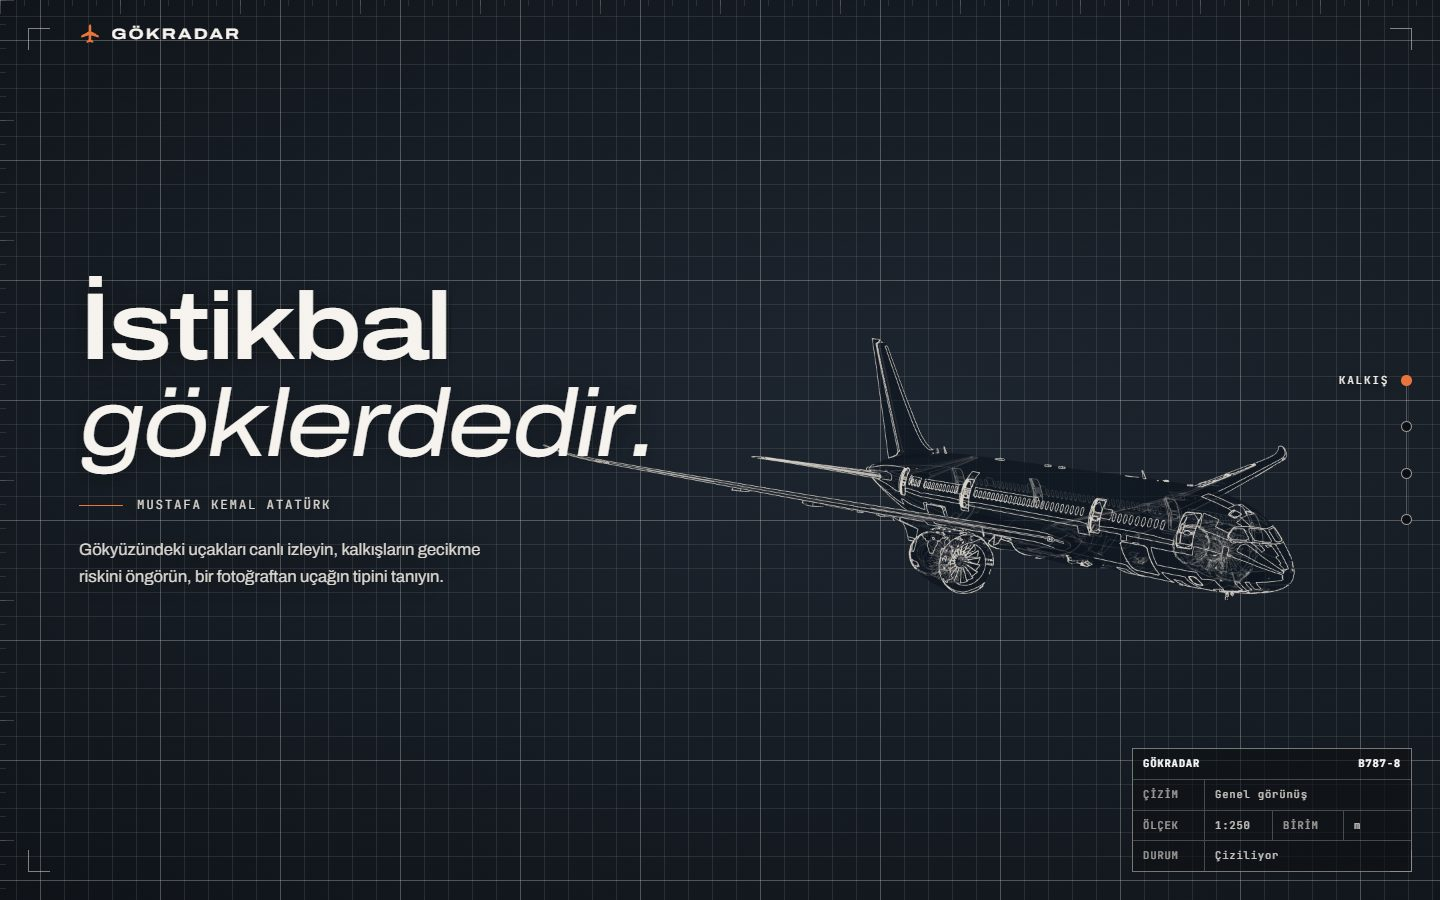
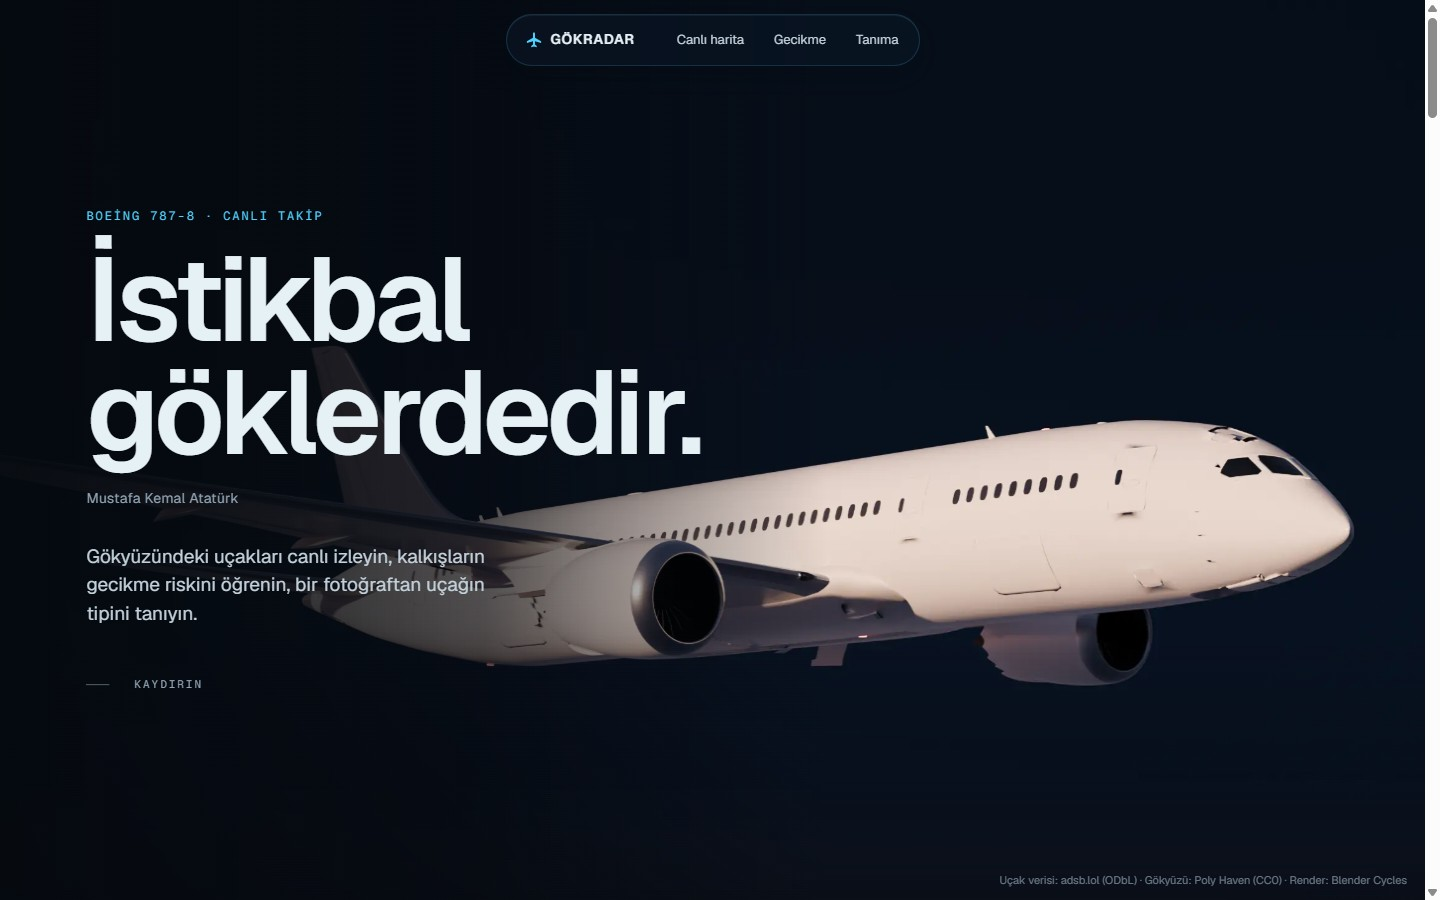
README: güncel modeller, kurulum adımları ve yeni ekran görüntüleri
- Tanıma: ConvNeXt-Tiny, FGVC + Wikimedia Commons, 87 aile; test top-1 %94,0.
- Gecikme: 12 ay BTS, varış METAR'ı, 90 günlük sönüm; test ROC-AUC 0,714 ve
  geriye dönük test tablosu. FAA NAS Status uyarı katmanı.
- Kurulum: load_bts --download, load_weather --dest, load_commons, init_db;
  eğitim yerel Parquet'ten. Blender sahnesi ve encode_frames adımları.
- Ekran görüntüleri yeni tasarımla; harita görüntüsündeki Planespotters
  fotoğrafı bulanıklaştırıldı, Commons fotoğrafına atıf eklendi.
- Ana sayfa ilk kare ön yüklemesi sürümlü adresle (çift indirme yok).

diff --git a/src/web/templates/index.html b/src/web/templates/index.html
@@ -4,8 +4,8 @@
 {% block body_class %}flight{% endblock %}
 {% block head %}
 <link rel="stylesheet" href="{{ url_for('web.static', filename='css/flight.css') }}">
-<link rel="preload" as="image" href="{{ url_for('web.static', filename='seq/d/001.webp') }}" media="(min-width: 901px)">
-<link rel="preload" as="image" href="{{ url_for('web.static', filename='seq/m/001.webp') }}" media="(max-width: 900px)">
+<link rel="preload" as="image" href="{{ url_for('web.static', filename='seq/d/001.webp') }}?v={{ seq_v }}" media="(min-width: 901px)">
+<link rel="preload" as="image" href="{{ url_for('web.static', filename='seq/m/001.webp') }}?v={{ seq_v }}" media="(max-width: 900px)">
 {% endblock %}
 
 {% block layout %}

diff --git a/README.md b/README.md
@@ -7,11 +7,12 @@
 ![Python](https://img.shields.io/badge/Python-3.14-3776AB?logo=python&logoColor=white)
 ![Flask](https://img.shields.io/badge/Flask-3.x-000000?logo=flask&logoColor=white)
 ![LightGBM](https://img.shields.io/badge/LightGBM-gecikme%20modeli-2E8B57)
-![PyTorch](https://img.shields.io/badge/PyTorch-EfficientNet--B0-EE4C2C?logo=pytorch&logoColor=white)
+![PyTorch](https://img.shields.io/badge/PyTorch-ConvNeXt--Tiny-EE4C2C?logo=pytorch&logoColor=white)
 ![PostgreSQL](https://img.shields.io/badge/PostgreSQL-Neon-4169E1?logo=postgresql&logoColor=white)
+![Blender](https://img.shields.io/badge/Blender-Cycles-F5792A?logo=blender&logoColor=white)
 ![Lisans](https://img.shields.io/badge/lisans-özel%20(tüm%20hakları%20saklıdır)-lightgrey)
 
-<img src="docs/images/anasayfa.jpg" alt="GÖKRADAR ana sayfa: teknik çizim olarak beliren Boeing 787" width="860">
+<img src="docs/images/anasayfa.jpg" alt="GÖKRADAR ana sayfa: alacakaranlıkta Boeing 787 ve İstikbal göklerdedir başlığı" width="860">
 
 </div>
 
@@ -21,33 +22,38 @@
 
 | | Modül | Ne sunar |
 |---|---|---|
-| 🛰 | **Canlı harita** | Dünyadaki ~11 000 uçağı gerçek zamanlı gösterir (yolcu, kargo, askeri, savaş jeti, helikopter, genel havacılık). Uçak seçilince tescil, tip, operatör, rota ve irtifa geçmişi görünür. |
-| ⏱ | **Gecikme tahmini** | Kalkış, varış, havayolu, tarih ve saat girilir; kalkış havalimanının **güncel METAR** hava durumu da hesaba katılarak uçuşun **15 dakikadan fazla gecikme olasılığı** döner. Aynı rota için günün farklı saatleri de karşılaştırılır. |
-| 📷 | **Uçak tanıma** | Yüklenen fotoğraftan 70 uçak ailesi arasında en olası üç tahmin ve güven skorları. Birbirine çok benzeyen aileler (DC-3 / C-47 gibi) tek satırda birleştirilir. |
+| 🛰 | **Canlı harita** | Dünyadaki uçakları gerçek zamanlı gösterir (yolcu, kargo, askeri, savaş jeti, helikopter, genel havacılık). Uçak seçilince tescil, tip, operatör, rota, fotoğraf ve irtifa geçmişi görünür. |
+| ⏱ | **Gecikme tahmini** | Kalkış, varış, havayolu, tarih ve saat girilir; kalkış ve varış havalimanlarının **güncel METAR** hava durumu da hesaba katılarak uçuşun **15 dakikadan fazla gecikme olasılığı** döner. Aynı rota için günün farklı saatleri karşılaştırılır; bugünkü uçuşlarda **FAA NAS Status** uyarıları (yer bekletme, kalkış gecikmesi, kapanış) ayrıca gösterilir. |
+| 📷 | **Uçak tanıma** | Yüklenen fotoğraftan **87 uçak ailesi** arasında en olası üç tahmin ve güven skorları (787, A350, A220, 737 MAX, F-35 gibi güncel tipler dahil). Birbirine çok benzeyen aileler (DC-3 / C-47 gibi) tek satırda birleştirilir. |
 
 ## Ekran görüntüleri
 
 <table>
   <tr>
-    <td width="50%"><img src="docs/images/harita.jpg" alt="Canlı harita"><br><sub><b>Canlı harita</b> — adsb.lol verisiyle dünya geneli</sub></td>
-    <td width="50%"><img src="docs/images/gecikme.jpg" alt="Gecikme tahmini"><br><sub><b>Gecikme tahmini</b> — olasılık, günün saatleri, güncel METAR</sub></td>
+    <td width="50%"><img src="docs/images/anasayfa-pencere.jpg" alt="Ana sayfa: yolcu penceresi durağı"><br><sub><b>Ana sayfa</b>: kaydırdıkça kamera uçağın etrafında dolaşır</sub></td>
+    <td width="50%"><img src="docs/images/harita.jpg" alt="Canlı harita"><br><sub><b>Canlı harita</b>: adsb.lol verisiyle dünya geneli, seçili uçağın rotası</sub></td>
   </tr>
   <tr>
-    <td colspan="2"><img src="docs/images/tanima.jpg" alt="Uçak tanıma"><br><sub><b>Uçak tanıma</b> — fotoğraf yükle, en olası üç aileyi gör</sub></td>
+    <td width="50%"><img src="docs/images/gecikme.jpg" alt="Gecikme tahmini"><br><sub><b>Gecikme tahmini</b>: olasılık, günün saatleri, güncel METAR</sub></td>
+    <td width="50%"><img src="docs/images/tanima.jpg" alt="Uçak tanıma"><br><sub><b>Uçak tanıma</b>: fotoğraf yükle, en olası üç aileyi gör</sub></td>
   </tr>
 </table>
+
+<sub>Harita görüntüsünde Planespotters.net fotoğrafı telif nedeniyle bulanıklaştırıldı. Tanıma örneğindeki
+fotoğraf: “Etihad Airways, A6-BLF, Boeing 787-9 Dreamliner”, Anna Zvereva, CC BY-SA 2.0 (Wikimedia Commons).</sub>
 
 ## Nasıl çalışır?
 
 ```
  Tarayıcı ──────────────► Flask API (waitress) ───────────────────────────────────────┐
   harita / form / yükleme    │  hız sınırı · CSP · önbellek · gzip                      │
-                             ├─► DelayPredictor   LightGBM + kalkış METAR'ı             │
-                             ├─► AircraftClassifier   EfficientNet-B0 (CUDA / CPU)      │
+                             ├─► DelayPredictor   LightGBM + kalkış/varış METAR'ı       │
+                             ├─► NasStatusCache   FAA NAS Status (uyarı katmanı)        │
+                             ├─► AircraftClassifier   ConvNeXt-Tiny (CUDA / CPU)        │
                              ├─► AdsbFeed         adsb.lol (dünya) + adsb.fi (askeri)   │
                              ├─► OpenSkyCache     bölge önbelleği + günlük kredi sayacı │
                              ├─► MetarCache · RouteLookup (adsbdb.com)                  │
-                             └─► Repository ──► Neon PostgreSQL (uçak DB, kayıtlar) ◄───┘
+                             └─► Repository ──► Neon PostgreSQL (uçak DB, NAS kayıtları)┘
 ```
 
 - **Tek paylaşımlı anlık görüntü:** tüm kullanıcılar sunucudaki aynı canlı veri görüntüsünü alır; dış servise
@@ -55,31 +61,50 @@
 - **Modeller açılışta bir kez yüklenir**, her istekte değil. Gecikme tahmininde günün birden çok saati tek
   model çağrısıyla hesaplanır.
 - **Gecikme modelinde veri sızıntısı yok:** yalnızca kalkıştan önce bilinen özellikler kullanılır
-  (zaman, havayolu, rota, mesafe, METAR, havalimanı yoğunluğu).
+  (zaman, ay, tatile uzaklık, havayolu, rota, mesafe, kalkış ve varış METAR'ı, havalimanı yoğunluğu).
+- **FAA NAS Status** olasılığa katılmaz; bugünkü uçuşlarda ayrı bir uyarı olarak gösterilir. Durum değiştikçe
+  `nas_status_snapshots` tablosuna yazılır; yeterli geçmiş birikince modele özellik olarak eklenebilir.
+- **Ana sayfa WebGL değildir:** Blender Cycles ile önceden render alınmış 439 karelik bir dizi, kaydırma
+  oranına göre canvas'a çizilir (Apple ürün sayfalarındaki yöntem). Masaüstü 14 MB, mobil 6 MB WebP.
 
 ## Model sonuçları
 
-**Gecikme modeli** — LightGBM, ABD'nin en yoğun 10 havalimanı (ATL, DFW, DEN, ORD, LAX, JFK, LAS, CLT, MCO, SEA),
-BTS verisinin Haziran–Temmuz 2026 dönemi; son 14 gün test seti (90 383 uçuş, gecikme oranı %32,4).
+**Gecikme modeli:** LightGBM, ABD'nin en yoğun 10 havalimanı (ATL, DFW, DEN, ORD, LAX, JFK, LAS, CLT, MCO, SEA)
+çıkışlı uçuşlar, BTS verisinin Ağustos 2025–Temmuz 2026 dönemi (12 ay). Eğitim 2,10 milyon uçuş, son eğitim
+günlerine 90 günlük zaman sönümüyle daha fazla ağırlık verilir. Test: son 14 gün (Temmuz 2026, 90 383 uçuş,
+gecikme oranı %32,4).
 
 | Model | ROC-AUC | PR-AUC | F1 | Recall | Brier |
 |---|---|---|---|---|---|
-| Lojistik regresyon (eşik ayarlı) | 0,696 | 0,517 | 0,547 | 0,728 | 0,197 |
-| **LightGBM (eşik ayarlı)** ★ | **0,712** | **0,536** | **0,559** | **0,719** | **0,193** |
+| Lojistik regresyon (eşik ayarlı) | 0,695 | 0,510 | 0,545 | 0,727 | 0,199 |
+| **LightGBM (eşik ayarlı)** ★ | **0,714** | **0,535** | **0,559** | **0,704** | **0,195** |
 
-> Gecikme, havalimanı ve hava durumu gibi çoğu zaman kontrol dışı etkenlere bağlı olduğundan bu bir **risk
-> göstergesidir, garanti değil**. Model olasılığı sistematik olarak biraz düşük tahmin eder (test dönemi
-> eğitim döneminden daha gecikmeliydi); kalibrasyon grafiği eğitim çıktılarında bulunur.
+Ocak, Mart ve Temmuz 2026 üzerinde geriye dönük test (ortalama ROC-AUC):
 
-**Uçak sınıflandırıcı** — EfficientNet-B0 (transfer learning), FGVC-Aircraft, 70 aile, 3 333 test görüntüsü.
+| Eğitim ağırlığı | ROC-AUC |
+|---|---|
+| Tüm geçmiş, eşit ağırlık | 0,6941 |
+| Yalnızca son 2 ay | 0,6934 |
+| 30 günlük sönüm | 0,6936 |
+| **90 günlük sönüm** ★ | **0,6943** |
+
+> Gecikme çoğu zaman havalimanı yoğunluğu ve hava durumu gibi kontrol dışı etkenlere bağlıdır; bu yüzden
+> sonuç bir **risk göstergesidir, garanti değil**.
+
+**Uçak sınıflandırıcı:** ConvNeXt-Tiny (ImageNet ön eğitimli, ince ayar, 320 px), FGVC-Aircraft ve Wikimedia
+Commons (CC lisanslı) fotoğrafları, 87 aile. Commons verisi fotoğrafçıya göre bölündü; aynı kişinin
+neredeyse aynı kareleri farklı bölümlere düşmez. Test: 4 667 görüntü.
 
 | Metrik | Test |
 |---|---|
-| Top-1 doğruluk | **%89,1** |
-| Top-3 doğruluk | **%96,0** |
-| Macro doğruluk | %88,8 |
+| Top-1 doğruluk | **%94,0** |
+| Top-3 doğruluk | **%97,0** |
+| Macro doğruluk | %94,2 |
+| Top-1, yalnızca FGVC (3 333) | %95,2 |
+| Top-1, yalnızca Commons (1 334) | %91,2 |
 
-Veri seti 2013 tarihli olduğundan A350 veya 737 MAX gibi yeni tipler en benzer aileye atanır.
+En çok karıştırılanlar DC-3 ↔ C-47 (arayüzde birleştirilir), Gripen ↔ Rafale ↔ MiG-29 ve 787 ↔ A350. Veri
+setinde olmayan bir tip en benzer aileye atanır.
 
 ## Teknolojiler
 
@@ -88,8 +113,9 @@ Veri seti 2013 tarihli olduğundan A350 veya 737 MAX gibi yeni tipler en benzer 
 | Arka uç | Python 3.14, Flask, waitress, Flask-Compress, SQLAlchemy |
 | Veritabanı | PostgreSQL (Neon, pooler bağlantısı) |
 | Makine öğrenmesi | LightGBM, scikit-learn, pandas, PyTorch, torchvision, Pillow |
-| Ön uç | Düz JavaScript, Leaflet (harita), three.js + GLTF (3B ana sayfa), Lenis |
-| Veri | adsb.lol, adsb.fi, OpenSky Network, adsbdb.com, BTS, aviationweather.gov, Iowa Environmental Mesonet |
+| Ön uç | Düz JavaScript ve CSS, Leaflet (harita), Geist yazı tipi |
+| Görsel | Blender 4.5 Cycles (OptiX), Poly Haven HDRI |
+| Veri | adsb.lol, adsb.fi, OpenSky Network, adsbdb.com, BTS, aviationweather.gov, Iowa Environmental Mesonet, FAA NAS Status, Wikimedia Commons |
 
 ## Kurulum
 
@@ -135,36 +161,48 @@ Tarayıcıda <http://127.0.0.1:5000/> — `/` ana sayfa · `/harita` canlı hari
 
 **1. Veri toplama**
 ```powershell
-python -m src.ingest.load_bts          # data/raw/bts/*.zip → data/processed/bts_flights.parquet
-python -m src.ingest.load_weather      # IEM METAR → data/processed/weather_hourly.parquet (load_bts'den sonra)
-python -m src.ingest.load_aircraft_db  # OpenSky aircraft DB → data/processed/aircraft.parquet
-python -m src.ingest.load_fgvc         # FGVC-Aircraft → data/raw/fgvc/ + sınıf dağılımı raporu
+python -m src.ingest.load_bts --download 2025-08 2026-07  # BTS'den 12 ayı indir → data/processed/bts_flights.parquet
+python -m src.ingest.load_weather         # kalkış havalimanlarının IEM METAR'ı (load_bts'den sonra)
+python -m src.ingest.load_weather --dest  # BTS'deki tüm varış havalimanlarının METAR'ı
+python -m src.ingest.load_aircraft_db     # OpenSky aircraft DB → data/processed/aircraft.parquet
+python -m src.ingest.load_fgvc            # FGVC-Aircraft → data/raw/fgvc/ + sınıf dağılımı raporu
+python -m src.ingest.load_commons         # Wikimedia Commons'tan güncel tipler (collect → download → filter → split)
 ```
-BTS "On-Time Performance" ZIP dosyaları `data/raw/bts/` klasörüne elle konur; birden çok ay desteklenir.
+`--download` verilmezse `data/raw/bts/` içindeki ZIP/CSV dosyaları okunur. Commons toplama yarıda kalırsa aynı
+komut kaldığı yerden sürer (tamamı yaklaşık 1,5 saat; API hız sınırına uyar).
 
 **2. Veritabanı**
 ```powershell
-python -m src.db.init_db               # tabloları ve indeksleri oluştur (varsa dokunmaz)
-python -m src.ingest.load_to_db        # Parquet → Neon (COPY); tablolar boşaltılıp yeniden doldurulur
-python -m src.ingest.load_to_db flights  # yalnızca seçilen tablo(lar): flights, weather, aircraft
+python -m src.db.init_db               # tabloları ve indeksleri oluştur (nas_status_snapshots dahil; varsa dokunmaz)
+python -m src.ingest.load_to_db aircraft  # Parquet → Neon (COPY); yalnızca uygulamanın kullandığı uçak tablosu
 ```
+Eğitim verisi Neon'a yüklenmez; modeller yerel Parquet dosyalarından eğitilir (ücretsiz Neon kotası küçük).
 
 **3. Gecikme modeli**
 ```powershell
-python -m src.ml.delay.export_data     # Neon → data/processed/delay_train_*.parquet (bir kez; --refresh ile yenile)
-python -m src.ml.delay.train           # LogReg + LightGBM; çıktılar models/delay/ altında
+python -m src.ml.delay.train           # LogReg + LightGBM, yerel Parquet'ten; çıktılar models/delay/ altında
 python -m src.ml.delay.calibration     # kalibrasyon grafiği (yeniden eğitmeden)
 ```
 
 **4. Fotoğraf sınıflandırma**
 ```powershell
-python -m src.ml.vision.train select --arch efficientnet_b0  # train'de eğit, val'de epoch seç
-python -m src.ml.vision.train select --arch resnet50
-python -m src.ml.vision.train final    # en iyi mimari + epoch ile train+val'de yeniden eğit
-python -m src.ml.vision.evaluate       # test seti — yalnızca en sonda, bir kez
+python -m src.ml.vision.train select --arch convnext_tiny  # train'de eğit, val'de epoch seç
+python -m src.ml.vision.train final    # seçilen ayarlarla train+val'de yeniden eğit
+python -m src.ml.vision.evaluate       # test seti: yalnızca en sonda, bir kez
 ```
 Eğitim her epoch sonunda `models/vision/checkpoints/` altına checkpoint yazar; yarıda kalırsa aynı komuta
-`--resume` eklenerek sürdürülür.
+`--resume` eklenerek sürdürülür. RTX 3060 Laptop ile select + final + evaluate yaklaşık 2 saat sürer.
+
+**5. Ana sayfa sahnesi (isteğe bağlı)**
+```powershell
+# tools/blender/ içine b787.glb (depoda) ve sky.hdr (Poly Haven "qwantani_dusk_2_puresky" 4K, CC0) gerekir
+blender -b --python tools/blender/scene.py -- --still hero,cockpit,window,top --pct 50   # deneme kareleri
+blender -b --python tools/blender/scene.py -- --anim 1 --pct 100 --samples 256          # 220 kare
+blender -b --python tools/blender/scene.py -- --inbetween 180 --pct 100 --samples 256   # iki kat sık dizi
+python tools/encode_frames.py tools/blender/frames_ib   # PNG → src/web/static/seq/{d,m}/NNN.webp
+```
+Render yarıda kalırsa aynı komut var olan kareleri atlayarak sürer. RTX 3060 ile 1440p, 256 örnek: kare başına
+7–30 sn.
 
 </details>
 
@@ -201,10 +239,10 @@ Hatalar her zaman `{"error": {"code": "...", "message": "..."}}` biçimindedir.
   içeriği (JPG/PNG), boyutu ve piksel sayısı kontrol edilir (sıkıştırma bombası koruması).
 - **Güvenli model yükleme:** görüntü modeli `torch.load(weights_only=True)` ile açılır.
 - **Gizli bilgiler** yalnızca `.env` ve `credentials.json` içindedir ve git'e girmez.
-- **Önbellek ve sıkıştırma:** gzip/brotli; CSS/JS adresleri `?v=` ile sürümlenip bir yıl, büyük model ve
-  görseller bir gün önbelleğe alınır.
-- **Dış servisler:** Google Fonts, jsDelivr/unpkg (Leaflet ve Lenis SRI ile), Stadia Maps ve Planespotters.net
-  ziyaretçinin IP adresini ilgili servislerle paylaşır.
+- **Önbellek ve sıkıştırma:** gzip/brotli; CSS/JS ve ana sayfa kareleri `?v=` ile sürümlenip bir yıl,
+  diğer görseller bir gün önbelleğe alınır.
+- **Dış servisler:** Google Fonts, unpkg (Leaflet, SRI ile), Stadia Maps ve Planespotters.net ziyaretçinin
+  IP adresini ilgili servislerle paylaşır.
 - Yüklenen fotoğraflar `data/uploads/` altında saklanır; kişisel veri içerebileceğinden düzenli temizleyin.
 
 ### Siteyi yayına alırken
@@ -219,15 +257,15 @@ yalnızca yerel porta bağlı bırakın ve `.env` içinde `TRUSTED_PROXY_HOPS=1`
 config.py                 # tüm ayarlar (havalimanları, eşikler, önbellek süreleri, hız sınırları)
 src/
 ├── api/                  # Flask uygulaması: app, routes, services, validation, ratelimit
-├── web/                  # sayfalar, şablonlar, CSS/JS, 3B model ve görseller
-├── services/             # adsb_feed, opensky_client/cache, metar_client, route_lookup
+├── web/                  # sayfalar, şablonlar, CSS/JS, ana sayfa kare dizisi (static/seq/)
+├── services/             # adsb_feed, opensky_client/cache, metar_client, route_lookup, nas_status
 ├── ml/
-│   ├── delay/            # gecikme modeli: export_data, train, evaluate, calibration, predict
+│   ├── delay/            # gecikme modeli: train, evaluate, calibration, predict
 │   └── vision/           # uçak sınıflandırıcı: train, evaluate, predict
 ├── features/             # gecikme özellikleri ve hava durumu eşleme
-├── ingest/               # BTS, METAR, uçak DB, FGVC, Neon'a toplu yükleme
+├── ingest/               # BTS, METAR, uçak DB, FGVC, Wikimedia Commons, Neon'a toplu yükleme
 └── db/                   # bağlantı, tablolar (SQLAlchemy), depo sınıfı
-tools/blender/scene.py    # ana sayfa sahnesi (Blender Cycles): 787, ışık, kamera yolu
+tools/blender/            # ana sayfa sahnesi (Blender Cycles): scene.py ve 787 modeli (b787.glb)
 tools/encode_frames.py    # render karelerini masaüstü/mobil WebP dizisine çevirir
 ```
 
@@ -236,9 +274,12 @@ tools/encode_frames.py    # render karelerini masaüstü/mobil WebP dizisine çe
 - Uçuş gecikmeleri: ABD BTS On-Time Performance; hava durumu: Iowa Environmental Mesonet ve aviationweather.gov (METAR).
 - Canlı konumlar: [adsb.lol](https://adsb.lol) (ODbL), adsb.fi ve OpenSky Network; rotalar: adsbdb.com; fotoğraflar:
   Planespotters.net (kullanım koşulları gereği fotoğrafçıya ve sayfaya bağlanır).
-- Fotoğraf modeli FGVC-Aircraft verisiyle eğitilir (yalnızca araştırma/ticari olmayan kullanım; veri bu depoda
-  dağıtılmaz).
-- Ana sayfadaki 3B model: “Boeing 787-8”, rocket0314 (Sketchfab), CC BY 4.0.
+- FAA NAS Status (nasstatus.faa.gov): ABD havalimanlarındaki anlık programlar ve kapanışlar.
+- Fotoğraf modeli FGVC-Aircraft (yalnızca araştırma/ticari olmayan kullanım) ve Wikimedia Commons fotoğraflarıyla
+  (CC BY / CC BY-SA; yazar ve lisans bilgisi `data/raw/commons/manifest.csv` içinde) eğitilir. Veriler bu depoda
+  dağıtılmaz.
+- Ana sayfadaki 3B model: “Boeing 787-8”, rocket0314 (Sketchfab), CC BY 4.0; render kareleri bu modelden
+  Blender Cycles ile üretildi. Gökyüzü ışığı: “Qwantani Dusk 2 (Pure Sky)”, Poly Haven, CC0.
 - Harita karoları: Stadia Maps, OpenMapTiles, OpenStreetMap katkıcıları (Stadia'nın ücretsiz planı ticari olmayan
   kullanım içindir).
 
